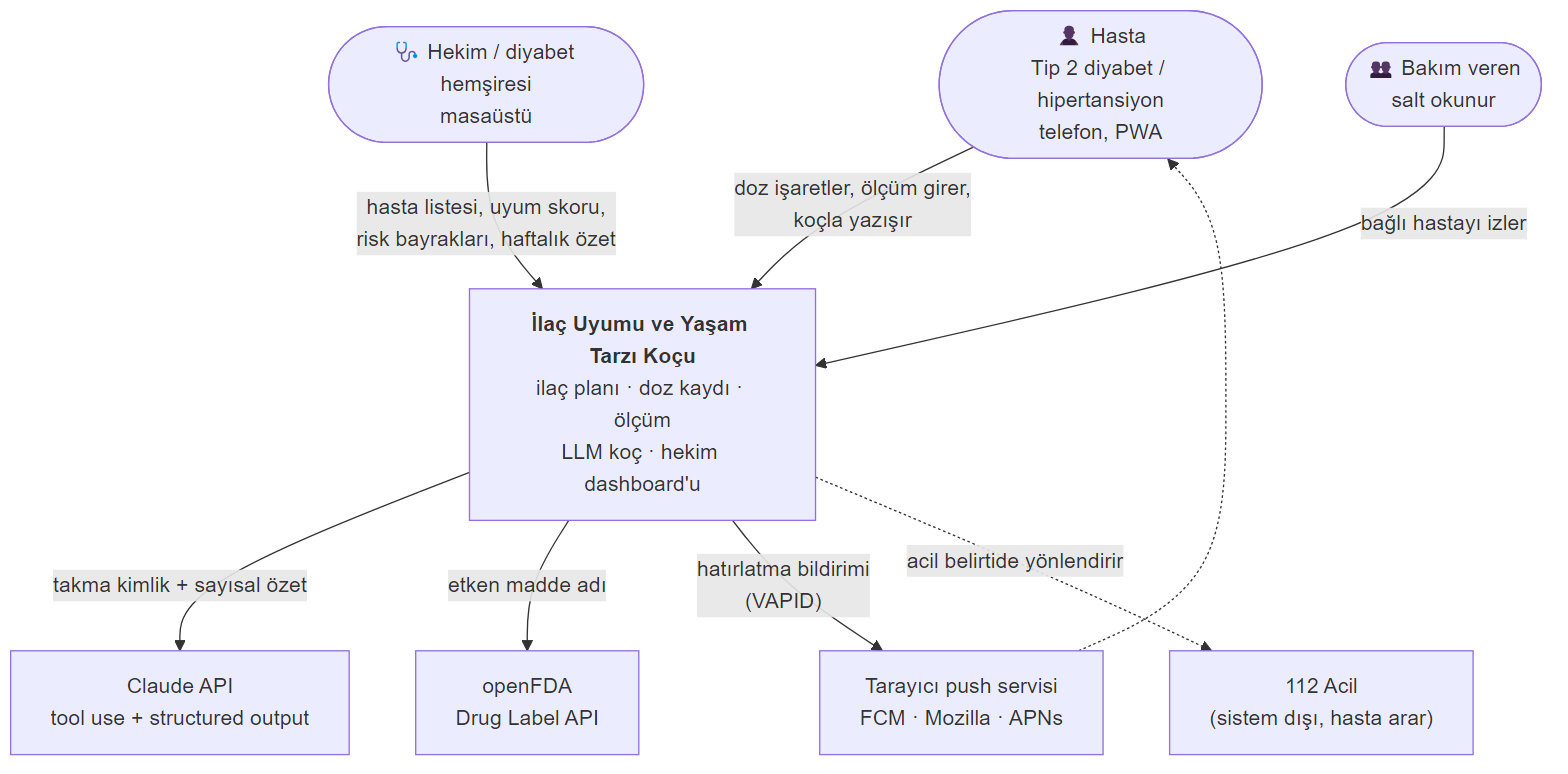
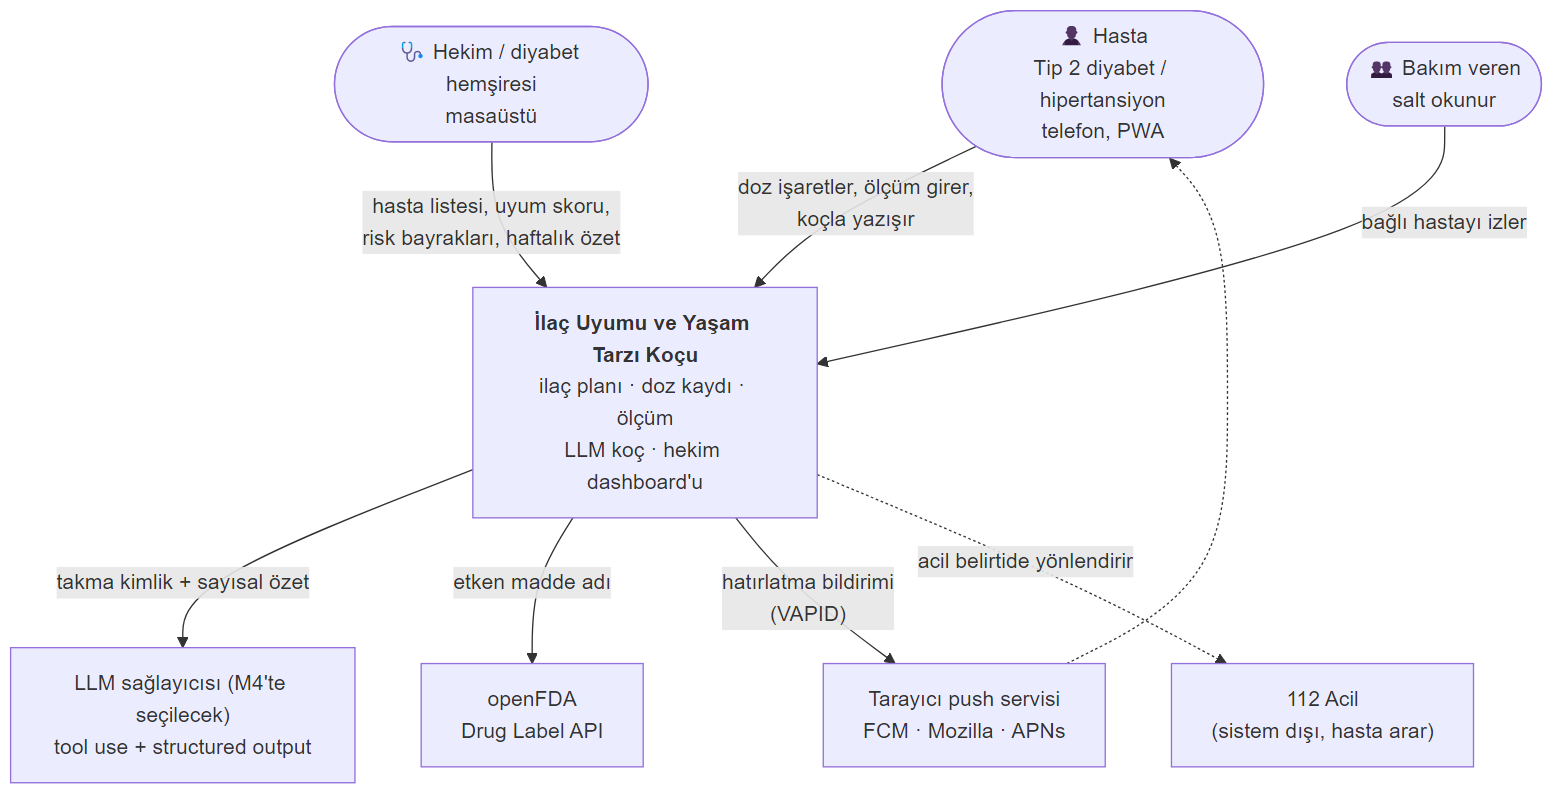
M1: mimari diyagramlarda LLM sağlayıcıdan bağımsız gösterildi

diff --git a/docs/M1/05-mimari.md b/docs/M1/05-mimari.md
@@ -24,7 +24,7 @@ flowchart TB
 
     SYS["<b>İlaç Uyumu ve Yaşam Tarzı Koçu</b><br/>ilaç planı · doz kaydı · ölçüm<br/>LLM koç · hekim dashboard'u"]
 
-    LLM["Claude API<br/>tool use + structured output"]
+    LLM["LLM sağlayıcısı (M4'te seçilecek)<br/>tool use + structured output"]
     FDA["openFDA<br/>Drug Label API"]
     WP["Tarayıcı push servisi<br/>FCM · Mozilla · APNs"]
     E112["112 Acil<br/>(sistem dışı, hasta arar)"]
@@ -84,7 +84,7 @@ flowchart TB
     subgraph Worker["Worker × M kopya"]
         Q["Kuyruk tüketici<br/>3 deneme + backoff"]
         COACH["Koç orkestrasyonu<br/>tool-use döngüsü + Guardrail Katman 3"]
-        CB2["Circuit breaker<br/>Claude API<br/>açıkken → kural tabanlı koç"]
+        CB2["Circuit breaker<br/>LLM sağlayıcısı<br/>açıkken → kural tabanlı koç"]
         TOOLS["Tool'lar + RAG"]
         SCH["APScheduler<br/>yalnızca lider kopya<br/>(PostgreSQL advisory lock)"]
         PUSH["pywebpush (VAPID)"]
@@ -92,7 +92,7 @@ flowchart TB
 
     DB[("PostgreSQL + pgvector")]
     RD[("Redis<br/>önbellek · rate limit kovaları<br/>iş kuyruğu · DLQ")]
-    CL["Claude API"]
+    CL["LLM sağlayıcısı<br/>OpenRouter / Anthropic"]
     FDA["openFDA"]
     WPS["Push servisi<br/>→ tarayıcıdaki Service Worker"]
 
@@ -134,7 +134,7 @@ flowchart TB
 | Rol kontrolü | Her istekte JWT doğrulama ve hasta-erişim kuralı; yetkisizse 404 |
 | Idempotency | Aynı `Idempotency-Key` ile tekrar gelen yazma isteğine ilk yanıt aynen döner, kayıt ikinci kez oluşmaz |
 | Guardrail | Katman 1 API'de (LLM'den önce, eşzamanlı), Katman 3 worker'da (LLM çıktısından sonra) |
-| Koç | Worker'da Claude ile tool-use döngüsü; structured output üretir |
+| Koç | Worker'da LLM ile tool-use döngüsü; structured output üretir. Model yapılandırmadan seçilir (bkz. [01 §5.1](01-proje-onerisi.md#51-llm-seçimi-deneyerek-karar)) |
 | Circuit breaker | Dış servis art arda hata verirse bir süre çağırmaz, doğrudan yedek yola geçer |
 | Worker | Koç işleri, hatırlatmalar; başarısız iş 3 denemeden sonra DLQ'ya |
 | Lider kilidi | Birden çok worker kopyasından yalnızca biri zamanlayıcıyı çalıştırır |
@@ -200,7 +200,7 @@ sequenceDiagram
     participant Q as Redis kuyruğu
     participant W as Worker
     participant CB as Circuit breaker
-    participant L as Claude API
+    participant L as LLM sağlayıcısı
     participant D as PostgreSQL
 
     H->>A: POST /v1/coach/chat (Idempotency-Key)
@@ -217,7 +217,7 @@ sequenceDiagram
         A->>Q: job_id
         A-->>H: 202 Accepted + job_id
         W->>Q: işi al
-        W->>CB: Claude çağrılabilir mi?
+        W->>CB: LLM çağrılabilir mi?
         alt devre açık / bütçe dolu
             CB-->>W: kural tabanlı yedek koç
         else devre kapalı
@@ -242,7 +242,7 @@ sequenceDiagram
 
 ## 5. Circuit breaker durumları
 
-Claude API ve openFDA için ayrı birer devre kesici çalışır. Durum Redis'te tutulur, böylece tüm kopyalar aynı kararı paylaşır.
+LLM sağlayıcısı ve openFDA için ayrı birer devre kesici çalışır. Durum Redis'te tutulur, böylece tüm kopyalar aynı kararı paylaşır.
 
 ![durum-circuit-breaker](diyagramlar/durum-circuit-breaker.png)
 
@@ -265,7 +265,7 @@ stateDiagram-v2
 
 | Servis | Devre açıkken davranış |
 |---|---|
-| Claude API | Kural tabanlı koç yanıt verir; guardrail'ler aynen geçerlidir. Haftalık özet şablon metinle üretilir. |
+| LLM sağlayıcısı | Kural tabanlı koç yanıt verir; guardrail'ler aynen geçerlidir. Haftalık özet şablon metinle üretilir. |
 | openFDA | Önbellekteki son etiket döner; yoksa "ilaç bilgisi şu an alınamıyor" mesajı. |
 
 ## 6. Hatırlatma (web push) akışı
@@ -381,7 +381,7 @@ flowchart LR
     graf --> prom
     apis & workers -. OTLP .-> jae
     apis -. dış .-> ext["openFDA"]
-    workers -. dış .-> ext2["Claude · Push servisi"]
+    workers -. dış .-> ext2["LLM sağlayıcısı · Push servisi"]
 ```
 
 </details>
@@ -417,7 +417,7 @@ flowchart LR
 | Mesaj kuyruğu + worker | LLM işleri API dışında | API isteği saniyelerce bloklanmaz | M4 |
 | Retry + üstel backoff | Geçici hatada yeniden dener | LLM sağlayıcısı 429 / 5xx dönebilir | M4 |
 | Dead-letter queue | 3 denemeden sonra iş DLQ'ya, metrikte görünür | Sessizce kaybolan koç mesajı olmaz | M4 |
-| Circuit breaker | Art arda hatada dış servisi bir süre çağırmaz | Claude/openFDA çökerse sistem yavaşlamaz, yedek yol hemen devreye girer | M4 |
+| Circuit breaker | Art arda hatada dış servisi bir süre çağırmaz | LLM sağlayıcısı veya openFDA çökerse sistem yavaşlamaz, yedek yol hemen devreye girer | M4 |
 | Dağıtık kilit (lider seçimi) | PostgreSQL advisory lock | Worker çoğaltılsa da hatırlatma tek kez gider | M4 |
 | Graceful shutdown | SIGTERM'de süren işi bitir | Güncelleme sırasında yarım kalan koç işi olmaz | M4 |
 | Gözlemlenebilirlik | Prometheus + Grafana, JSON log + request ID, OpenTelemetry + Jaeger | Bir koç isteğinin Nginx → API → kuyruk → worker → LLM yolu tek zaman çizelgesinde görülür | M2–M5 |
@@ -438,7 +438,7 @@ flowchart LR
 
 - **Senaryo:** 200 sanal hasta sabah 08:00 yoğunluğunu taklit eder: giriş → bugün ekranı → "aldım" → ölçüm girişi. 20 sanal hekim paneli yeniler.
 - **Karşılaştırma:** `--scale api=1` ve `--scale api=3`; istek/sn, p95/p99 gecikme, hata oranı.
-- **Dayanıklılık:** Test sürerken bir API kopyası durdurulur. Beklenti: hata oranı geçici olarak artar, sonra sıfıra iner. Claude API taklidi hata verdirilir. Beklenti: devre açılır, koç yedek yanıtla devam eder.
+- **Dayanıklılık:** Test sürerken bir API kopyası durdurulur. Beklenti: hata oranı geçici olarak artar, sonra sıfıra iner. LLM sağlayıcısı taklidi hata verdirilir. Beklenti: devre açılır, koç yedek yanıtla devam eder.
 - **Başarı ölçütü:** 3 kopyada p95 < 300 ms (LLM hariç uçlar), hata oranı < %1.
 
 ## 10. Planlanan monorepo yapısı

diff --git a/README.md b/README.md
@@ -49,7 +49,7 @@ flowchart LR
     API --> RD[("Redis<br/>önbellek · kuyruk")]
     API --> FDA["openFDA"]
     RD --> WK["Worker × M<br/>koç · zamanlayıcı (lider)<br/>circuit breaker"]
-    WK --> LLM["Claude API<br/>tool use"]
+    WK --> LLM["LLM sağlayıcısı<br/>tool use · M4'te seçilecek"]
     WK --> DB
     WK --> WP["Web Push (VAPID)"] -.-> U
 ```
@@ -64,6 +64,6 @@ Ayrıntı: [docs/M1/05-mimari.md](docs/M1/05-mimari.md)
 |---|---|
 | Frontend | Next.js (PWA), TypeScript, Recharts, shadcn/ui |
 | Backend | FastAPI, SQLAlchemy, Alembic, APScheduler, pywebpush |
-| LLM | Claude API (tool use + structured output), pgvector (RAG) |
+| LLM | Sağlayıcıdan bağımsız koç katmanı (tool use + structured output); model M3–M4'te adaylar denenerek seçilecek ([ayrıntı](docs/M1/01-proje-onerisi.md#51-llm-seçimi-deneyerek-karar)), pgvector (RAG) |
 | Altyapı | PostgreSQL, Redis, Nginx (reverse proxy + LB), Docker Compose, GitHub Actions |
 | Gözlemlenebilirlik / test | Prometheus, Grafana, OpenTelemetry, Jaeger, k6 |
